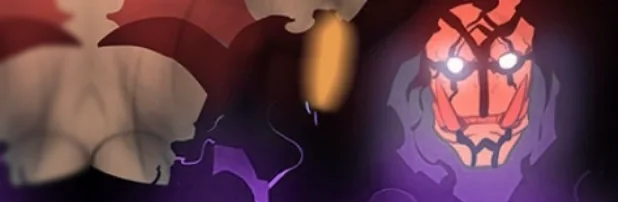
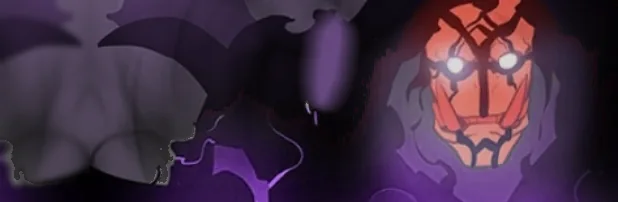
베르 스프라이트·할퀴기 이펙트·카드 적용(눈·날개 밝게, 몸통 어둡게), 베르가 적에게 달려가 붙어서 공격(배치 자리 기준 범위, 이동 속도 160), 베르·어금니 카드 톤 정리

diff --git a/game.js b/game.js
@@ -344,6 +344,12 @@ function makeBasicUnit(state, d, x, y) {
     facing: x < GAME_DATA.field.core.x ? -1 : 1,   // 그림 방향(표시 전용): 거점 바깥쪽을 봄
     // 준비 단계에서 배치한 그림자만 회수 가능. 웨이브가 시작되면 false로 잠김
     recallable: state.status === STATUS.PREPARATION,
+    // 돌격(charge)이 있는 그림자(베르): 배치한 자리(origin)를 지키다가 범위 안 적에게 달려가 붙어서 공격하고, 적이 없으면 돌아옴
+    ...(d.charge ? {
+      mobile: true, originX: x, originY: y, moveSpeed: d.charge.speed,
+      detectionRadius: d.charge.search, maxRoamRadius: d.charge.leash,
+      targetId: null, moving: false,
+    } : {}),
   };
 }
 
@@ -718,7 +724,7 @@ function serializeRun(state) {
     coreHp: state.coreHp,
     stats: Object.assign({}, state.stats, { waveKills: 0 }),
     basic: state.basicUnits.filter((u) => u.alive).map((u) => ({
-      typeId: u.typeId, x: u.x, y: u.y, hp: u.hp, energyCostPaid: u.energyCostPaid,
+      typeId: u.typeId, x: u.mobile ? u.originX : u.x, y: u.mobile ? u.originY : u.y, hp: u.hp, energyCostPaid: u.energyCostPaid,
     })),
     extracted: state.extractedUnits.filter((u) => u.alive).map((u) => ({
       sourceEnemyId: u.sourceEnemyId, x: u.originX, y: u.originY, hp: u.hp, energyCostPaid: u.energyCostPaid,
@@ -802,6 +808,7 @@ function updateGame(state, dt) {
   updateRemnants(state, dt);              // 2. 잔영 시간 갱신
   updateEnemyMovement(state, dt);         // 3. 적 이동 / 거점 도달 (도달하면 멈춰서 거점 공격)
   updateExtractedAI(state, dt);           // 4. 추출 그림자 탐색 / 추격 / 복귀
+  updateChargingBasics(state, dt);        //    돌격하는 기본 그림자(베르): 달려가 붙기 / 복귀
   updateCooldowns(state, dt);             // 5. 쿨타임
   const killed = processShadowAttacks(state); // 6. 그림자 공격 (기본 + 추출)
   processEnemyAttacks(state);             //    적 공격: 그림자 또는 거점 (이번 틱에 죽은 적은 공격하지 않음)
@@ -910,6 +917,35 @@ function moveToCoreSlot(e, core, step) {
 }
 
 // 추출 그림자 AI: SPAWN → IDLE → CHASE → ATTACK → (대상 사망) → IDLE / RETURN
+// 돌격하는 기본 그림자(베르): 추출 그림자와 같은 방식으로 탐색·추격하되, 배치한 자리(origin)에서 leash 안에서만 움직이고
+// 붙으면(공격 사거리 안) 멈춰서 공격. 대상이 없으면 배치한 자리로 돌아감 (공격 자체는 processShadowAttacks)
+function updateChargingBasics(state, dt) {
+  const ex = GAME_DATA.extraction;
+  for (const u of state.basicUnits) {
+    if (!u.alive || !u.mobile) continue;
+    let target = u.targetId === null ? null : state.enemies.find((e) => e.uid === u.targetId);
+    if (!canChase(u, target)) target = findChaseTarget(state, u);
+    u.targetId = target ? target.uid : null;
+    u.moving = false;
+    if (target) {
+      faceToward(u, target.x);
+      if (dist(u.x, u.y, target.x, target.y) <= u.attackRange) continue;   // 붙었음: 멈춰서 공격
+      moveAroundCore(u, target.x, target.y, u.moveSpeed * dt, u.attackRange * 0.9);
+      clampToRoam(u);
+      clampToField(u);
+      pushOutOfCore(u);
+      u.moving = true;
+      continue;
+    }
+    if (dist(u.x, u.y, u.originX, u.originY) > 0.5) {   // 돌아가기
+      faceToward(u, u.originX);
+      moveAroundCore(u, u.originX, u.originY, u.moveSpeed * dt, 0);
+      u.moving = true;
+      if (dist(u.x, u.y, u.originX, u.originY) < 0.5) { u.x = u.originX; u.y = u.originY; u.moving = false; }
+    }
+  }
+}
+
 function updateExtractedAI(state, dt) {
   const ex = GAME_DATA.extraction;
   for (const s of state.extractedUnits) {
@@ -1120,12 +1156,15 @@ function checkWaveComplete(state) {
   // 웨이브가 끝나면 추출하지 않은 잔영은 모두 사라짐 → 준비 단계에는 잔영이 남지 않음
   state.remnants = [];
   state.selectedRemnantUid = null;
+  for (const u of state.basicUnits) {   // 돌격하는 그림자는 배치한 자리로 돌려놓음 (다음 웨이브 준비·저장은 그 자리 기준)
+    if (u.mobile) { u.x = u.originX; u.y = u.originY; u.targetId = null; u.moving = false; }
+  }
   setStatus(state, isLast ? STATUS.VICTORY : STATUS.WAVE_CLEAR);
 }
 
 // 공격 연출 (게임 규칙에 영향 없음). style: 없으면 공격 선, 'claw'면 할퀴기 자국
 const LINE_FX_TIME = 0.12;
-const ATTACK_FX_TIME = { claw: 0.3, slash: 0.46, ice: 0.3, bearclaw: 0.36, slam: 0.4, bite: 0.36, bolt: 0.28, blast: 0.4, breath: 0.55, orb: 0.56 };   // 이펙트 종류별 재생 시간(초, 시작 지연 포함)
+const ATTACK_FX_TIME = { claw: 0.3, slash: 0.46, ice: 0.3, bearclaw: 0.36, slam: 0.4, bite: 0.36, bolt: 0.28, blast: 0.4, breath: 0.55, orb: 0.56, berclaw: 0.28 };   // 이펙트 종류별 재생 시간(초, 시작 지연 포함)
 const ORB_IMPACT_TIME = 0.18;   // 마력구가 닿은 뒤 터지며 흩어지는 시간(초)
 function addEffect(state, x1, y1, x2, y2, kind, style) {
   const ttl = ATTACK_FX_TIME[style] || LINE_FX_TIME;
@@ -1175,6 +1214,7 @@ function validateGameData(data) {
     if (s.targetType === 'splash' && !isPos(s.splashRadius)) errors.push(`shadows ${s.id}: splash 공격은 splashRadius가 필요합니다.`);
     if (s.targetType === 'line' && !(isPos(s.lineLength) && isPos(s.lineWidth))) errors.push(`shadows ${s.id}: line 공격은 lineLength·lineWidth가 필요합니다.`);
     if (s.hitDelay !== undefined && !(s.hitDelay >= 0 && s.hitDelay < s.attackInterval)) errors.push(`shadows ${s.id}: hitDelay는 0 이상, 공격 간격보다 짧아야 합니다.`);
+    if (s.charge !== undefined && !(s.charge && isPos(s.charge.speed) && isPos(s.charge.search) && isPos(s.charge.leash))) errors.push(`shadows ${s.id}: charge는 speed·search·leash(양수)가 필요합니다.`);
     if (s.unlockAfterChapter !== undefined && !(data.chapters || []).some((ch) => ch.chapterId === s.unlockAfterChapter)) errors.push(`shadows ${s.id}: unlockAfterChapter ${s.unlockAfterChapter} 챕터가 없습니다.`);
   }
   const extraCards = data.shadows.filter((s) => s.unlockAfterChapter !== undefined).length;
@@ -1430,6 +1470,23 @@ const SPRITES = {
       walk:   { row: 1, frames: 6, fps: 8, stride: 40, groundY: 66 },   // 기본 그림자는 제자리라 지금은 쓰지 않음
       // 0~2 두 손을 모았다가 앞으로, 3 손을 뻗어 마력구를 모아 던짐(타격), 4 복귀. 3번은 마력구를 모으는 동안 유지
       attack: { row: 2, frames: 5, fps: 9, strikeFrame: 3, strikeHold: 0.22, groundY: 66 },
+      hit:    { row: 3, frames: 2, fps: 10, groundY: 66 },
+      death:  { row: 4, frames: 5, fps: 8, groundY: 66 },
+    },
+  },
+  SH_006: {   // 베르 (날개 달린 개미 왕). 프레임마다 어두운 몸 가운데 x·발끝을 맞춰 104×68 칸으로 정렬
+    src: 'assets/sprites/sh_006.png',   // 원본이 이미 보랏빛이라 색은 그대로. 반투명 날개는 살짝만 더 비치게, 눈·몸의 보랏빛 빛은 조금 밝게 (몸 색은 원본)
+    cellW: 104, cellH: 68,
+    scale: 1,
+    glow: true,       // 그림자 유닛: 보랏빛 윤곽 빛
+    anchorX: 50,      // 칸 안에서 몸 가운데 x
+    bodyTop: 4,       // 머리 가시 끝 높이 (HP바 위치)
+    shadow: { w: 16, h: 3, dx: 0, op: 1.2 },
+    anims: {
+      idle:   { row: 0, frames: 4, fps: 8, groundY: 66 },   // 날갯짓 (빠르게)
+      walk:   { row: 1, frames: 6, fps: 12, stride: 50, groundY: 66 },   // 기본 그림자는 제자리라 지금은 쓰지 않음
+      // 0 웅크림, 1 손을 뻗음, 2 발톱으로 할큄(타격), 3~4 복귀. 공격 간격이 0.45초라 빠르게 재생
+      attack: { row: 2, frames: 5, fps: 14, strikeFrame: 2, groundY: 66 },
       hit:    { row: 3, frames: 2, fps: 10, groundY: 66 },
       death:  { row: 4, frames: 5, fps: 8, groundY: 66 },
     },
@@ -2269,7 +2326,16 @@ function drawOrbFx(ctx, fx, state) {
   ctx.restore();
   return true;
 }
-const ATTACK_FX = { claw: CLAW_FX, slash: SLASH_FX, ice: ICE_FX, bearclaw: BEARCLAW_FX, slam: SLAM_FX, bite: BITE_FX };
+// 베르 할퀴기 (assets/sprites/fx_berclaw.png, 80×60 도트 6프레임, 보랏빛 초승달). 베르가 바라보는 쪽, 뻗은 발톱 앞에 위→아래로 그림
+const BERCLAW_FX = {
+  src: 'assets/sprites/fx_berclaw.png', w: 80, h: 60, frames: 6,
+  rows: {},
+  glow: { shadow: 'rgba(169, 139, 255, 0.6)' },
+  bodyLift: 17,  // 판정 위치에서 위로(px) = 할퀴는 프레임의 발톱 높이 (칸 y 37, 발끝 y 66은 판정 위치 아래 12px)
+  reach: 36,     // 베르가 바라보는 쪽으로 떨어진 거리(px) = 뻗은 발톱 끝(칸 x 91) 바로 앞
+  // 원본은 아래→위로 긋는 모양이라 위아래를 뒤집어 위→아래로 할퀴게 그림 (upright 없음)
+};
+const ATTACK_FX = { claw: CLAW_FX, slash: SLASH_FX, ice: ICE_FX, bearclaw: BEARCLAW_FX, slam: SLAM_FX, bite: BITE_FX, berclaw: BERCLAW_FX };
 
 // 잔영 (assets/sprites/remnant.png): 보랏빛 그림자 불꽃 6프레임 반복. 파일이 없으면 기존 원형으로 그림
 //  - 바닥 웅덩이를 쓰러진 적의 발밑에 맞춤. 클릭 판정(잔영 위치 반경 16px)은 그대로
@@ -2567,7 +2633,7 @@ function drawCoreSprite(ctx, core, state, C) {
 const CORE_HP_LOW = 50;   // 거점 HP가 이 값 이하면 숫자를 붉게
 
 function loadFxSheets() {
-  for (const fx of [CLAW_FX, SLASH_FX, ICE_FX, BEARCLAW_FX, SLAM_FX, BITE_FX, BREATH_FX, ORB_FX, REMNANT_FX, DEMON_WINDOWS, ANT_GLOW, ...Object.values(CORE_SPRITES)]) {
+  for (const fx of [CLAW_FX, SLASH_FX, ICE_FX, BEARCLAW_FX, SLAM_FX, BITE_FX, BERCLAW_FX, BREATH_FX, ORB_FX, REMNANT_FX, DEMON_WINDOWS, ANT_GLOW, ...Object.values(CORE_SPRITES)]) {
     const img = new Image();
     img.onload = () => { fx.img = fx.shade ? buildTintedSheet(img, fx.shade) : img; };
     img.onerror = () => console.warn(`[이펙트 불러오기 실패] ${fx.src}`);
@@ -2754,6 +2820,10 @@ function render(ctx, state, view) {
   // 범위 표시 (D 키)
   if (view.showRanges) {
     for (const u of state.basicUnits) {
+      if (u.mobile) {   // 돌격하는 그림자: 움직일 수 있는 범위(배치한 자리 기준)
+        ctx.fillStyle = COLORS.roam;
+        drawCircle(ctx, u.originX, u.originY, u.maxRoamRadius); ctx.fill();
+      }
       ctx.fillStyle = COLORS.range;
       ctx.strokeStyle = COLORS.rangeLine;
       drawCircle(ctx, u.x, u.y, u.attackRange); ctx.fill(); ctx.stroke();
@@ -2804,9 +2874,9 @@ function render(ctx, state, view) {
   for (const u of state.basicUnits) {
     const d = findShadowData(u.typeId);
     const cfg = spriteFor(u.typeId);
-    if (cfg) {   // 스프라이트: 대기·공격·피격 애니메이션 (제자리 고정)
+    if (cfg) {   // 스프라이트: 대기·공격·피격 애니메이션 (대부분 제자리 고정, 돌격하는 그림자는 이동도)
       const engaged = findBasicTargets(state, u).length > 0;
-      const pick = pickAnim(u, state.elapsed, false, cfg, engaged);
+      const pick = pickAnim(u, state.elapsed, !!u.moving, cfg, engaged);   // 돌격하는 그림자는 달리는 동안 이동 동작
       drawGroundShadow(ctx, cfg, pick.anim, pick.frame, u.x, u.y, 1, 1, GROUND_SHADOW);
       const selected = state.selectedUnitUid === u.uid;
       const recallHover = !selected && view.hoverUnitUid === u.uid && canRecall(state, u).ok;
@@ -2977,7 +3047,7 @@ function render(ctx, state, view) {
     ctx.stroke();
     ctx.lineWidth = 1;
     ctx.setLineDash([4, 4]);
-    drawCircle(ctx, view.mouse.x, view.mouse.y, d.attackRange); ctx.stroke();
+    drawCircle(ctx, view.mouse.x, view.mouse.y, d.charge ? d.charge.leash : d.attackRange); ctx.stroke();   // 돌격하는 그림자는 달려갈 수 있는 범위
     ctx.setLineDash([]);
   }
 }

diff --git a/data.js b/data.js
@@ -59,6 +59,8 @@ const GAME_DATA = {
   //                lineMaxTilt: 줄기가 위아래로 꺾이는 최대 각도(라디안), 가까운 적에게 급하게 꺾이지 않게 부드럽게 눌러 줌)
   //  unlockAfterChapter: 그 챕터를 클리어하면 카드가 생김 (없으면 처음부터 사용). 카드가 늘 때마다 기본 그림자 최대 수 +1
   //  hitDelay: 있으면 공격 이펙트가 날아가 닿는 시각(초 뒤)에 피해가 들어감 (어금니 마력구)
+  //  charge: 있으면 배치한 자리를 지키다가 적에게 달려가 붙어서 공격 (베르). speed 이동 속도, search 자기 둘레 탐색 반경,
+  //          leash 배치한 자리에서 움직일 수 있는 최대 거리. 적이 없으면 돌아오고, 웨이브가 끝나면 배치한 자리로
   //  cardImage·attackFx·스프라이트가 없으면 카드는 색 띠만, 공격은 기본 연출(공격 선·탄환·폭발 원)로 표시
   shadows: [
     { id: 'SH_001', name: '아이언',   role: 'tank',   cost: 30, maxHp: 300, attack: 20, attackInterval: 1.5, attackRange: 100, targetType: 'single',       color: '#4f86ff', attackFx: 'slam', cardImage: 'assets/cards/sh_001.webp' },
@@ -66,7 +68,7 @@ const GAME_DATA = {
     { id: 'SH_003', name: '탱크',     role: 'area',   cost: 40, maxHp: 220, attack: 35, attackInterval: 2.0, attackRange: 110, targetType: 'all_in_range', color: '#2ec4b6', attackFx: 'bearclaw', cardImage: 'assets/cards/sh_003.webp' },
     { id: 'SH_005', name: '카이셀',   role: 'area',   cost: 55, maxHp: 180, attack: 28, attackInterval: 2.2, attackRange: 150, targetType: 'line', lineLength: 180, lineWidth: 36, lineMaxTilt: 0.9, color: '#5fd0ff', attackFx: 'breath', cardImage: 'assets/cards/sh_005.webp', unlockAfterChapter: 4 },
     { id: 'SH_004', name: '어금니',   role: 'magic',  cost: 45, maxHp: 120, attack: 38, attackInterval: 1.6, attackRange: 170, targetType: 'single',       color: '#ff8a3d', attackFx: 'orb', hitDelay: 0.38, cardImage: 'assets/cards/sh_004.webp', unlockAfterChapter: 3 },
-    { id: 'SH_006', name: '베르',     role: 'speed',  cost: 50, maxHp: 200, attack: 20, attackInterval: 0.45, attackRange: 70, targetType: 'single',       color: '#b8f04a', unlockAfterChapter: 5 },
+    { id: 'SH_006', name: '베르',     role: 'speed',  cost: 50, maxHp: 200, attack: 20, attackInterval: 0.45, attackRange: 38, targetType: 'single',       color: '#b8f04a', charge: { speed: 160, search: 160, leash: 150 }, attackFx: 'berclaw', cardImage: 'assets/cards/sh_006.webp', unlockAfterChapter: 5 },
   ],
 
   // 적. targetType: 없으면 한 명, all_in_range면 사거리 안 그림자 전부
